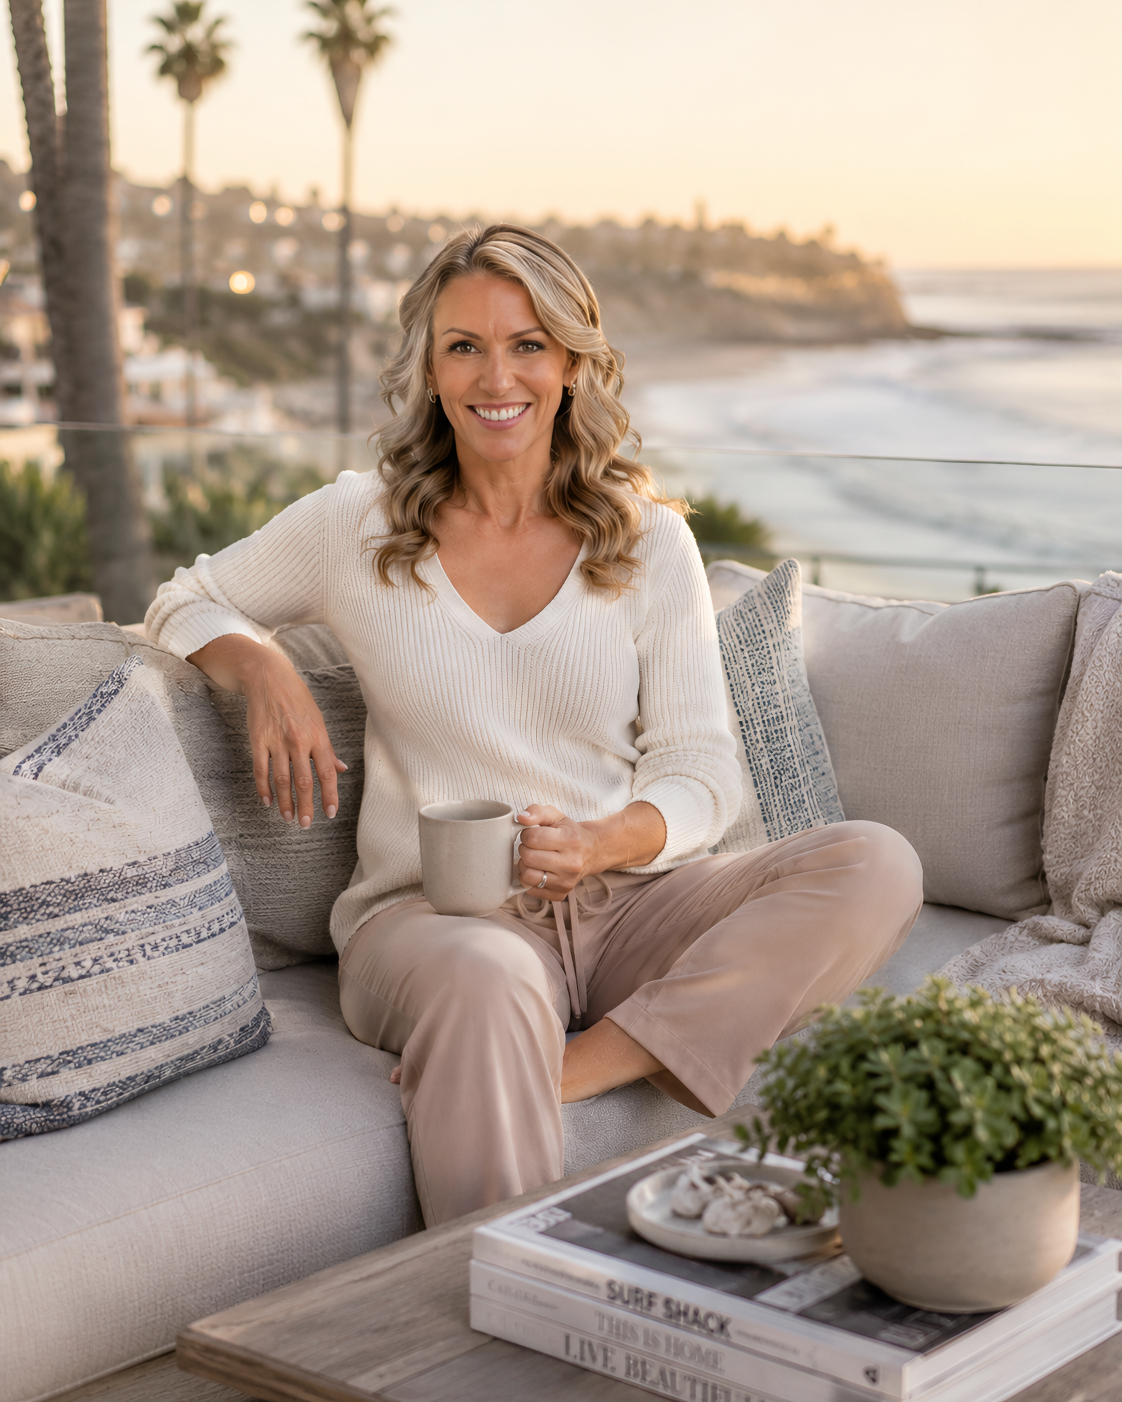
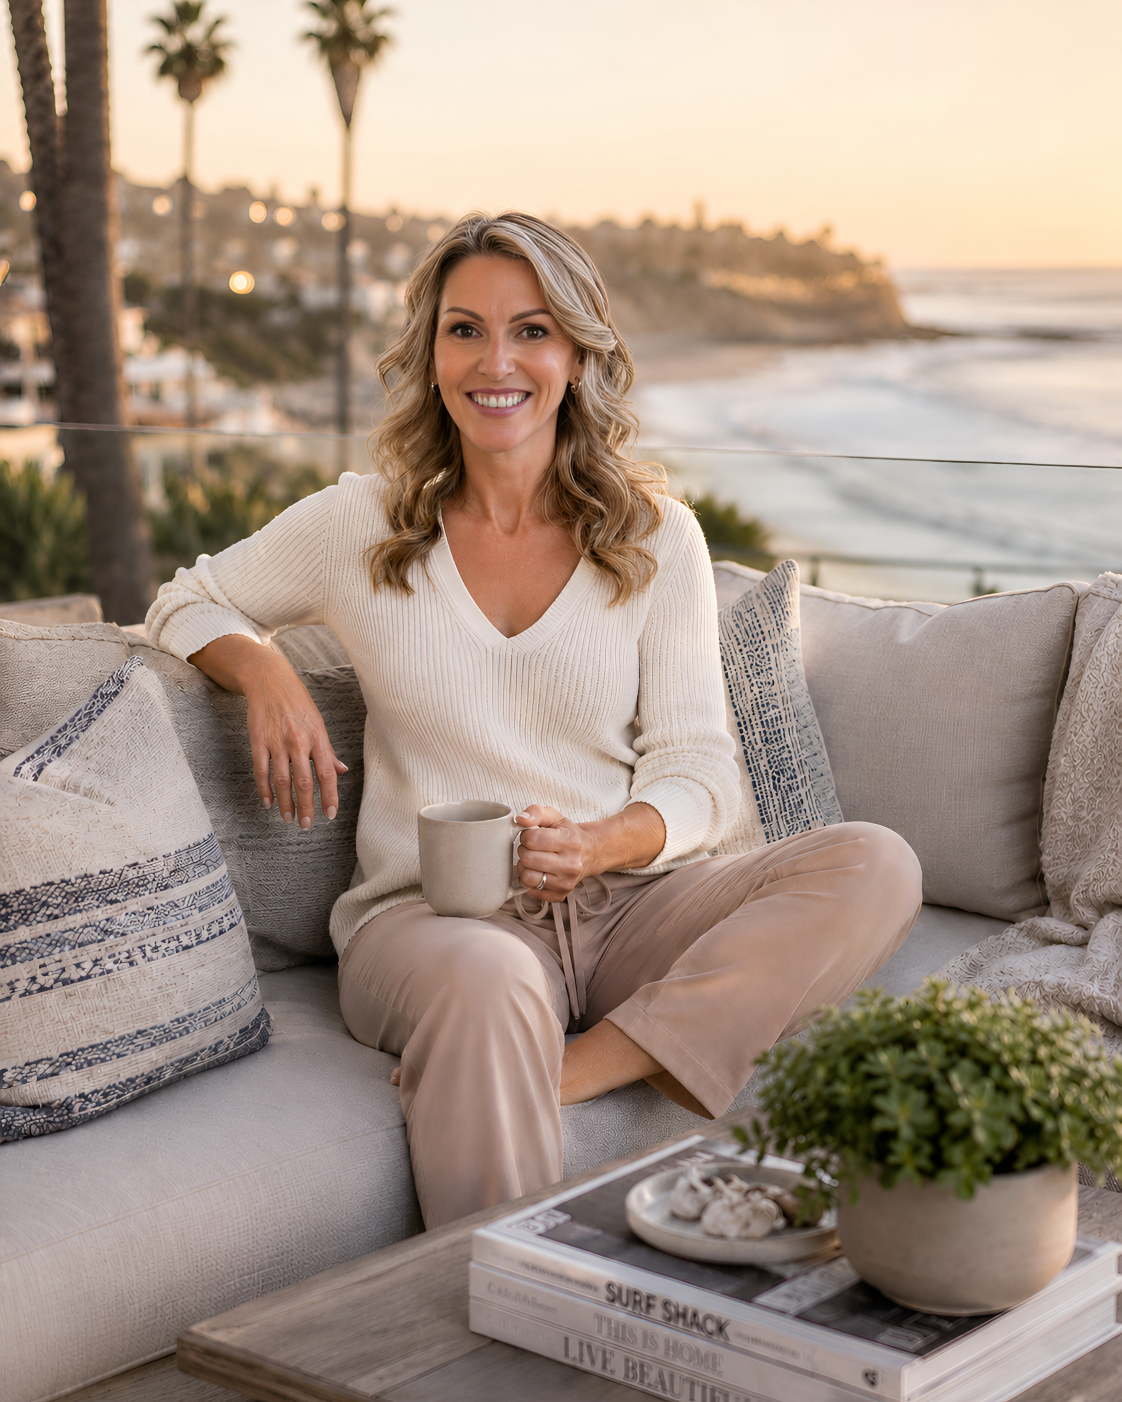
Testimonials and Work With Us updates

diff --git a/testimonials.html b/testimonials.html
@@ -29,7 +29,7 @@
       width: 100%;
       height: 100%;
       object-fit: cover;
-      object-position: center 30%;
+      object-position: center 20%;
       display: block;
     }
     .reviews-hero-photo::after {
@@ -325,10 +325,6 @@
       <div class="reviews-hero-divider"></div>
       <p class="reviews-hero-about">At The Jaiswal Group Real Estate, we believe exceptional representation begins with trust, thoughtful guidance, and a deep understanding of the San Diego market.</p>
       <p class="reviews-hero-about">Known for our responsive communication, strategic approach, and highly personalized service, we're committed to helping clients feel confident and well-supported throughout every step of the buying or selling process.</p>
-      <div class="reviews-rating-badge">
-        <span class="stars-row">&#9733;&#9733;&#9733;&#9733;&#9733;</span>
-        <span>100% 5-Star Reviews</span>
-      </div>
     </div>
   </section>
 
@@ -545,6 +541,24 @@
   </section>
 
   <!-- =========================================================
+       WORK WITH US
+  ========================================================= -->
+  <section class="work-with-us">
+    <div class="wwu-content">
+      <h2>WORK WITH US</h2>
+      <p>Choosing the right representation matters.</p>
+      <p>At The Jaiswal Group Real Estate, every client receives a tailored, concierge-level approach — from exclusive opportunities and strategic negotiation to responsive communication and thoughtful guidance throughout every step of the process.</p>
+      <p>Our goal is simple: to help you feel confident, informed, and well-supported from beginning to end.</p>
+      <p>Every client relationship is personal, intentional, and backed by a team that genuinely cares about your goals and outcome.</p>
+      <p>Let's explore what's possible.</p>
+      <a href="contact.html" class="btn btn-primary">CONTACT US</a>
+    </div>
+    <div class="wwu-photo">
+      <img src="Lynnette-torreypinesbackground.jpg" alt="Lynnette Jaiswal, The Jaiswal Group Real Estate" />
+    </div>
+  </section>
+
+  <!-- =========================================================
        FOOTER
   ========================================================= -->
   <footer class="site-footer">
@@ -589,6 +603,7 @@
       <div class="footer-compliance-logos">
         <img src="logorealtor.png" alt="Realtor" class="footer-compliance-logo" />
         <img src="logoEHO.png" alt="Equal Housing Opportunity" class="footer-compliance-logo" />
+        <img src="logo-NSDCAR.png" alt="North San Diego County Realtors" class="footer-compliance-logo" />
       </div>
     </div>
     <div class="footer-bottom">

diff --git a/style.css b/style.css
@@ -1376,14 +1376,14 @@ h1, h2, h3 { font-family: 'Marcellus', serif; font-weight: 400; line-height: 1.1
   display: flex;
   background: #F3EFE8;
   overflow: hidden;
-  min-height: 600px;
+  min-height: 620px;
 }
 .wwu-content {
   flex: 0 0 50%;
   display: flex;
   flex-direction: column;
   justify-content: center;
-  padding: clamp(4rem, 7vw, 7rem) clamp(2rem, 5vw, 5rem) clamp(4rem, 7vw, 7rem) clamp(2.5rem, 6vw, 6rem);
+  padding: clamp(2rem, 3vw, 3rem) clamp(2rem, 5vw, 5rem) clamp(2rem, 3vw, 3rem) clamp(2.5rem, 6vw, 6rem);
   color: #1C3063;
 }
 .wwu-content .section-eyebrow {
@@ -1395,17 +1395,20 @@ h1, h2, h3 { font-family: 'Marcellus', serif; font-weight: 400; line-height: 1.1
   font-family: 'Marcellus', serif;
   font-size: clamp(2rem, 4vw, 3rem);
   letter-spacing: 0.12em;
-  margin-bottom: 1.5rem;
+  margin-bottom: 1rem;
   color: #1C3063;
 }
 .wwu-content p {
   font-size: 0.92rem;
-  line-height: 1.9;
+  line-height: 1.75;
   color: #4a4643;
-  margin-bottom: 0.5rem;
+  margin-bottom: 0.35rem;
 }
 .wwu-content p:last-of-type {
-  margin-bottom: 2rem;
+  margin-bottom: 1.25rem;
+}
+.wwu-content .btn {
+  align-self: flex-start;
 }
 
 /* Right: photo panel */
@@ -1413,12 +1416,15 @@ h1, h2, h3 { font-family: 'Marcellus', serif; font-weight: 400; line-height: 1.1
   flex: 0 0 50%;
   position: relative;
   overflow: hidden;
+  align-self: stretch;
 }
 .wwu-photo img {
+  position: absolute;
+  inset: 0;
   width: 100%;
   height: 100%;
   object-fit: cover;
-  object-position: 65% 30%;
+  object-position: 65% 10%;
   display: block;
 }
 /* Fade left edge of photo into cream */
@@ -1570,6 +1576,7 @@ h1, h2, h3 { font-family: 'Marcellus', serif; font-weight: 400; line-height: 1.1
   height: 50px;
   width: auto;
   opacity: 0.5;
+  filter: brightness(0) invert(1);
 }
 
 /* ── Bottom bar ── */

diff --git a/index.html b/index.html
@@ -653,7 +653,7 @@
       <a href="contact.html" class="btn btn-primary">CONTACT US</a>
     </div>
     <div class="wwu-photo">
-      <img src="Lynnette-Torreypines.jpg" alt="Lynnette Jaiswal, The Jaiswal Group Real Estate" />
+      <img src="Lynnette-torreypinesbackground.jpg" alt="Lynnette Jaiswal, The Jaiswal Group Real Estate" />
     </div>
   </section>
 
@@ -715,6 +715,7 @@
       <div class="footer-compliance-logos">
         <img src="logorealtor.png" alt="Realtor" class="footer-compliance-logo" />
         <img src="logoEHO.png" alt="Equal Housing Opportunity" class="footer-compliance-logo" />
+        <img src="logo-NSDCAR.png" alt="North San Diego County Realtors" class="footer-compliance-logo" />
       </div>
     </div>
 